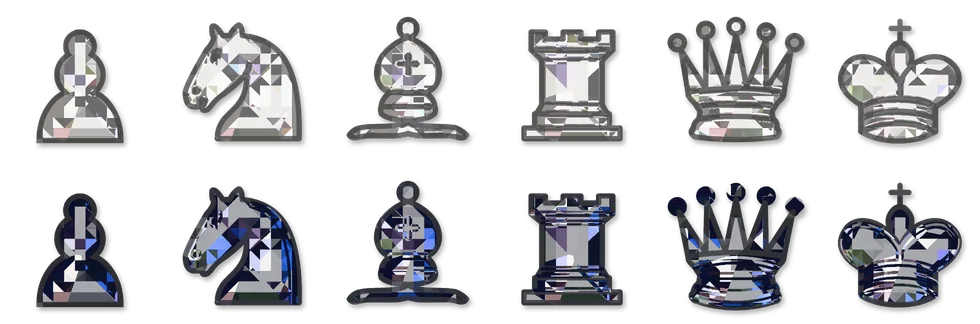
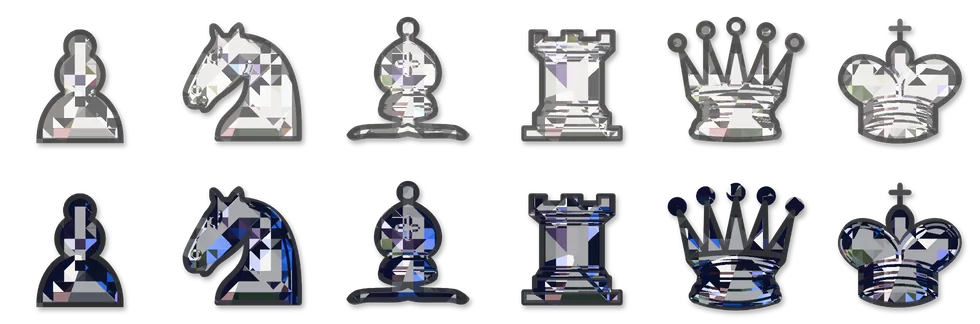
Quân trắng 2D bỏ nét vẽ chi tiết bên trong, chỉ giữ viền ngoài như quân đen
Áp cho mọi bộ quân 2D trừ Cổ điển (và 8-bit vẽ điểm ảnh). flatcomp.py bỏ nét tối nằm sâu hơn 1,3 đơn vị hình
tính từ mép quân (cùng ngưỡng với rãnh khắc trong main.js), nên chỗ nét cũ chỉ còn rãnh khắc nhẹ.
export.py nhận thêm tham số kiểu quân để chỉ xuất lại ảnh 2D.

Claude-Session: https://claude.ai/code/session_016UE9k71BxZ7DchRyoH8u4X

diff --git a/tools/themes/export.py b/tools/themes/export.py
@@ -1,4 +1,4 @@
-"""Xuất ảnh chủ đề cho web: python3 export.py ../../src/themes [chủ đề,...]
+"""Xuất ảnh chủ đề cho web: python3 export.py ../../src/themes [chủ đề,...|all] [kiểu,...]
 
 Ghi tên chủ đề (ví dụ `concrete`) thì chỉ xuất riêng bộ quân và bàn đó, không cần chụp lại các bộ khác.
 
@@ -24,7 +24,12 @@ VARIANTS = {
     '3d-faceted': ('out/fullB', 192, 253, 4),
     '3d-modern': ('out/fullC', 192, 253, 4),
 }
-ONLY = sys.argv[2].split(',') if len(sys.argv) > 2 else None
+ONLY = sys.argv[2].split(',') if len(sys.argv) > 2 and sys.argv[2] != 'all' else None
+# Tham số thứ ba (vd `2d`): chỉ xuất những kiểu quân đó, các kiểu khác giữ nguyên ảnh cũ.
+KINDS = sys.argv[3].split(',') if len(sys.argv) > 3 else None
+if KINDS:
+    VARIANTS = {k: v for k, v in VARIANTS.items() if k in KINDS}
+    BOARDS = []
 if ONLY:
     SETS = [t for t in SETS if t in ONLY]
     BOARDS = [b for b in BOARDS if b in ONLY]
@@ -104,7 +109,7 @@ for tid in SETS:
         webp(icon(big), f'{OUT}/pieces/{tid}/{var}-icon.webp', q=86)
         sizes[path] = os.path.getsize(path)
 
-if not ONLY:
+if not ONLY and not KINDS:
     # 8-bit: vẽ điểm ảnh 32px, phóng to bằng cách nhân điểm ảnh (không làm mờ).
     cells = {c + p: Image.open(f'out/pixel8/{c}-{p}.png').convert('RGBA').resize((32, 32), Image.NEAREST) for c in 'wb' for p in P}
     png(sheet(cells, 32, 32, 2), f'{OUT}/pieces/8bit/2d.png')
@@ -121,7 +126,7 @@ for bid in BOARDS:
     webp(im.resize((ICON, ICON), Image.LANCZOS), f'{OUT}/boards/{bid}-icon.webp', q=86)
     colors[bid] = coord_colors(im)
     sizes[f'{OUT}/boards/{bid}.webp'] = os.path.getsize(f'{OUT}/boards/{bid}.webp')
-if not ONLY:
+if not ONLY and not KINDS:
     im = Image.open('out/pixel8/board.png').convert('RGB').resize((256, 256), Image.NEAREST)
     png(im, f'{OUT}/boards/8bit.png')
     png(im.resize((ICON, ICON), Image.NEAREST), f'{OUT}/boards/8bit-icon.png')

diff --git a/tools/themes/flatcomp.py b/tools/themes/flatcomp.py
@@ -7,6 +7,15 @@ name = sys.argv[1]
 only = sys.argv[2].split(',') if len(sys.argv) > 2 else None
 INK = {'dark': 0.9, 'light': 0.85, 'shadow': 0.32}
 
+def dist_inside(mask, steps):
+    """Khoảng cách (điểm ảnh) từ mỗi điểm trong hình tới mép hình, tính bằng cách gọt dần từng lớp viền."""
+    im = Image.fromarray((mask * 255).astype(np.uint8))
+    d = np.zeros(mask.shape, np.float64)
+    for _ in range(steps):
+        d += np.asarray(im, np.float64) / 255
+        im = im.filter(ImageFilter.MinFilter(3))
+    return d
+
 def lin(a): return np.where(a <= 0.04045, a / 12.92, ((a + 0.055) / 1.055) ** 2.4)
 def srgb(a): a = np.clip(a, 0, 1); return np.where(a <= 0.0031308, a * 12.92, 1.055 * a ** (1 / 2.4) - 0.055)
 
@@ -21,6 +30,12 @@ for f in sorted(glob.glob(f'out/{name}/*/*.png')):
     ia, ir, ig = I[..., 3:4], I[..., 0:1], I[..., 1:2]
     ink = {**INK, **THEMES.get(theme, {}).get('flatInk', {}).get(color, {})}
     dark = ia * np.clip(1 - ir - ig, 0, 1)
+    # Quân trắng: chỉ giữ nét viền ngoài, bỏ các nét vẽ chi tiết bên trong (giống quân đen); chỗ nét cũ vẫn còn
+    # rãnh khắc nhẹ trên mặt quân. Cùng ngưỡng với rãnh khắc trong main.js (từ 1,3 đơn vị hình vào trong).
+    if color == 'w' and not ink.get('detail'):
+        unit = a.shape[1] / 45
+        d = dist_inside((a[..., 0] > 0.5).astype(np.float64), int(unit * 2.4) + 2)
+        dark = dark * (1 - np.clip((d / unit - 1.3) / 0.8, 0, 1))[..., None]
     light = ia * ig
     # Phủ tối cả thân (kiểu thủy tinh đen sẫm) khi chủ đề yêu cầu.
     if ink.get('body'): dark = np.maximum(dark, ia * np.clip(ir - ig, 0, 1) * ink['body'] / INK['dark'])

diff --git a/tools/themes/README.md b/tools/themes/README.md
@@ -29,8 +29,11 @@ Mỗi lệnh `gen*.py` viết ra một danh sách việc chụp (`jobs-<tên>.js
 | `python3 pixel8.py out/pixel8` | Bộ 8-bit (vẽ tay từng điểm ảnh) |
 | `python3 export.py ../../src/themes` | Gộp ảnh, nén WebP, ghi vào web (mất khoảng 5 phút) |
 | `python3 export.py ../../src/themes concrete` | Chỉ xuất riêng một chủ đề (khi thêm bộ mới, không cần chụp lại các bộ cũ) |
+| `python3 export.py ../../src/themes all 2d` | Chỉ xuất lại quân 2D của mọi bộ (không cần ảnh 3D, ảnh bàn) |
 
 Có thể chụp riêng vài chủ đề, vài quân: `python3 gen.py thu steel,wood king,knight 288` rồi `node drive.mjs jobs-thu.json`.
+
+Quân trắng 2D chỉ giữ nét viền ngoài, bỏ các nét vẽ chi tiết bên trong như quân đen (chỗ nét cũ còn rãnh khắc nhẹ). Muốn giữ nét cho một chủ đề thì đặt `'flatInk': {'w': {'detail': True}}` trong `themes.py`.
 
 ## Code nằm ở đâu
 
